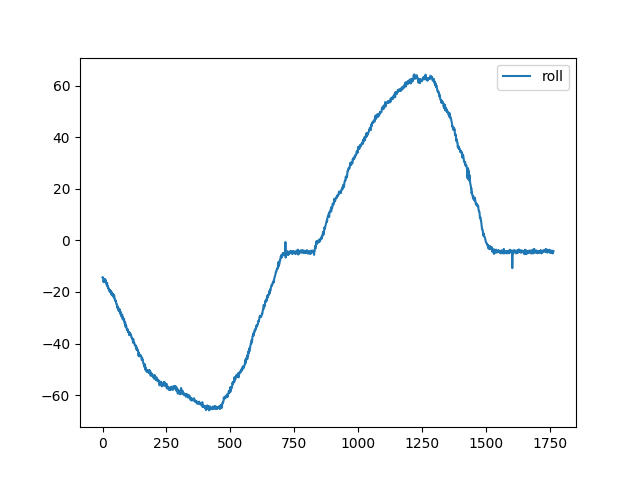
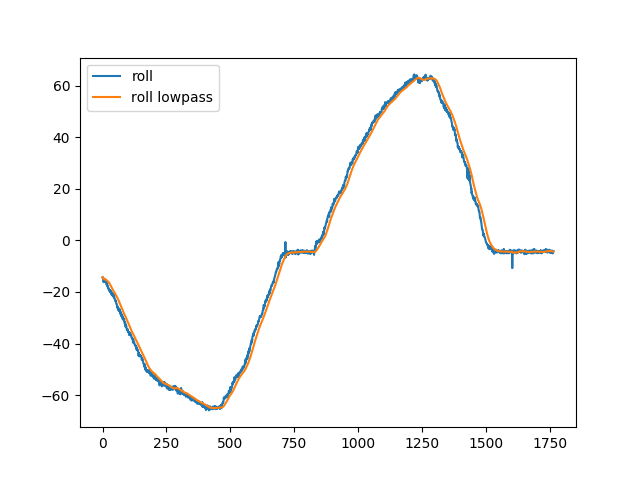
Added solution for excersise 4.1 and 4.2

diff --git a/Lecture5/plot_pitch_angle.py b/Lecture5/plot_pitch_angle.py
@@ -1,6 +1,16 @@
 #!/usr/bin/python2
 from Modules.imu_exercise import plot_accel
 from math import pi, sqrt, atan2
+
+def do_running_average(data_list, n):
+    #return an average of the last n elements in the given list.
+    #If the list contains fewer than n samples, we just return the average of them.
+    if(len(data_list) >= n):
+        return sum(data_list[-n:]) / n
+    else:
+    #We have not sampled enough yet.
+        return sum(data_list) / len(data_list)
+
 def plot_pitch_func(**kwargs):
     #compute the variable
     plotdata = kwargs["plotdata"]
@@ -50,6 +60,90 @@ def plot_static_func(**kwargs):
         plotdata["series"][0]["data"].append(roll)
         plotdata["series"][1]["data"].append(pitch)
 
+def plot_roll_avg_func(**kwargs):
+    #compute the variable
+    plotdata = kwargs["plotdata"]
+    roll = atan2(-kwargs["acc_x"],kwargs["acc_z"])
+    roll *= 180/pi
+
+    #Add the variable to plotdata. If it does not exist yet, simply create it in the dict
+    try:
+        roll_avg = do_running_average(plotdata["series"][0]["data"], 25)
+        plotdata["series"][0]["data"].append(roll)
+        plotdata["series"][1]["data"].append(roll_avg)
+    except:
+        plotdata["series"] = []
+        plotdata["series"].append({"data" : [], "label" : "roll"})
+        plotdata["series"].append({"data" : [], "label" : "roll lowpass"})
+        plotdata["series"][0]["data"].append(roll)
+        plotdata["series"][1]["data"].append(roll)
+
+def plot_pitch_avg_func(**kwargs):
+    #compute the variable
+    plotdata = kwargs["plotdata"]
+    pitch = atan2(kwargs["acc_y"], ( (kwargs["acc_x"] ** 2 + kwargs["acc_z"] ** 2) ** 0.5))
+    pitch *= 180/pi
+
+    #Add the variable to plotdata. If it does not exist yet, simply create it in the dict
+    try:
+        pitch_avg = do_running_average(plotdata["series"][0]["data"], 25)
+        plotdata["series"][0]["data"].append(pitch)
+        plotdata["series"][1]["data"].append(pitch_avg)
+    except:
+        plotdata["series"] = []
+        plotdata["series"].append({"data" : [], "label" : "pitch"})
+        plotdata["series"].append({"data" : [], "label" : "pitch lowpass"})
+        plotdata["series"][0]["data"].append(pitch)
+        plotdata["series"][1]["data"].append(pitch)
+
+def plot_pitch_avg_func(**kwargs):
+    #compute the variable
+    plotdata = kwargs["plotdata"]
+    pitch = atan2(kwargs["acc_y"], ( (kwargs["acc_x"] ** 2 + kwargs["acc_z"] ** 2) ** 0.5))
+    pitch *= 180/pi
+
+    #Add the variable to plotdata. If it does not exist yet, simply create it in the dict
+    try:
+        pitch_avg = do_running_average(plotdata["series"][0]["data"], 25)
+        plotdata["series"][0]["data"].append(pitch)
+        plotdata["series"][1]["data"].append(pitch_avg)
+    except:
+        plotdata["series"] = []
+        plotdata["series"].append({"data" : [], "label" : "pitch"})
+        plotdata["series"].append({"data" : [], "label" : "pitch lowpass"})
+        plotdata["series"][0]["data"].append(pitch)
+        plotdata["series"][1]["data"].append(pitch)
+
+def plot_yaw_gyro_func(**kwargs):
+    #compute the variable
+    #Create the integral if it does not exist
+    init_angle = 90
+    plotdata = kwargs["plotdata"]
+    bias =  2.65/5900
+    #initialize to init angle if first time.
+    try:
+        plotdata["yaw_integral"]
+    except:
+        plotdata["yaw_integral"] = init_angle
+        plotdata["yaw_integral_unbiased"] = init_angle
+
+
+    #Integrate the gyro value
+    plotdata["yaw_integral"] += kwargs["gyro_z"] * (kwargs["ts_now"] - kwargs["ts_prev"]) * 180/pi
+    plotdata["yaw_integral_unbiased"] += kwargs["gyro_z"] * (kwargs["ts_now"] - kwargs["ts_prev"]) * 180/pi - bias
+
+    #Add the variable to plotdata. If it does not exist yet, simply create it in the dict
+    try:
+        plotdata["series"][0]["data"].append(plotdata["yaw_integral"])
+        plotdata["series"][1]["data"].append(plotdata["yaw_integral_unbiased"])
+
+    except:
+        plotdata["series"] = []
+        plotdata["series"].append({"data" : [], "label" : "yaw_gyro"})
+        plotdata["series"].append({"data" : [], "label" : "yaw_gyro_unbiased"})
+
+        plotdata["series"][0]["data"].append(plotdata["yaw_integral"])
+        plotdata["series"][1]["data"].append(plotdata["yaw_integral_unbiased"])
 
 def __main__():
     ## Uncomment the file to read ##
@@ -60,15 +154,31 @@ def __main__():
     #Plot the pitch data
     fileName = 'imu_razor_data_pitch_45deg.txt'
     imuType = 'sparkfun_razor'
-    plot_accel(imuType, fileName, plot_pitch_func)
+    plot_accel(imuType, fileName, plot_pitch_func, pngname = "pitch_accel.png", showplot = False)
     #plot the roll data
     fileName = 'imu_razor_data_roll_45deg.txt'
     imuType = 'sparkfun_razor'
-    plot_accel(imuType, fileName, plot_roll_func)
+    plot_accel(imuType, fileName, plot_roll_func, pngname = "roll_accel.png", showplot = False)
     #plot the static data
     fileName = 'imu_razor_data_static.txt'
     imuType = 'sparkfun_razor'
-    plot_accel(imuType, fileName, plot_static_func)
+    plot_accel(imuType, fileName, plot_static_func, pngname = "static_accel.png", showplot = False)
+
+    fileName = 'imu_razor_data_roll_45deg.txt'
+    imuType = 'sparkfun_razor'
+    plot_accel(imuType, fileName, plot_roll_avg_func, pngname = "roll_avg_accel.png", showplot = False)
+
+    fileName = 'imu_razor_data_pitch_45deg.txt'
+    imuType = 'sparkfun_razor'
+    plot_accel(imuType, fileName, plot_pitch_avg_func, pngname = "pitch_avg_accel.png", showplot = False)
+
+    fileName = 'imu_razor_data_yaw_90deg.txt'
+    imuType = 'sparkfun_razor'
+    plot_accel(imuType, fileName, plot_yaw_gyro_func, pngname = "gyro_yaw.png", showplot = False)
+
+    fileName = 'imu_razor_data_static.txt'
+    imuType = 'sparkfun_razor'
+    plot_accel(imuType, fileName, plot_yaw_gyro_func, pngname = "gyro_yaw.png", showplot = False)
 
 
 __main__()

diff --git a/Lecture5/Modules/imu_exercise.py b/Lecture5/Modules/imu_exercise.py
@@ -17,7 +17,7 @@ import matplotlib.pyplot as plt
 
 
 # looping through file
-def plot_accel(imuType, fileName, plot_func, showplot = True, saveplot = True):
+def plot_accel(imuType, fileName, plot_func, pngname = None, showplot = True, saveplot = True):
     ## Variables for plotting ##
     showPlot = True
     plotData = []
@@ -39,8 +39,8 @@ def plot_accel(imuType, fileName, plot_func, showplot = True, saveplot = True):
         ts_recv = float(csv[0])
         if count == 1:
             ts_now = ts_recv # only the first time
-            ts_prev = ts_now
-            ts_now = ts_recv
+        ts_prev = ts_now
+        ts_now = ts_recv
 
         if imuType == 'sparkfun_razor':
             # import data from a SparkFun Razor IMU (SDU firmware)
@@ -77,8 +77,9 @@ def plot_accel(imuType, fileName, plot_func, showplot = True, saveplot = True):
         ## Insert your code here ##
 
 
-        plot_func(acc_x = acc_x, acc_y = acc_y, acc_z = acc_z
-            , gyro_x = gyro_x, gyro_y = gyro_y, gyro_z = gyro_z, plotdata = plotdata)
+        plot_func(acc_x = acc_x, acc_y = acc_y, acc_z = acc_z,
+            gyro_x = gyro_x, gyro_y = gyro_y, gyro_z = gyro_z,
+            ts_now = ts_now, ts_prev = ts_prev, plotdata = plotdata)
         # in order to show a plot use this function to append your value to a list:
         #plotData.append (plotvar*180.0/pi)
 
@@ -94,6 +95,9 @@ def plot_accel(imuType, fileName, plot_func, showplot = True, saveplot = True):
             plt.plot(series["data"], label=series["label"])
         plt.legend()
         if(saveplot):
-            plt.savefig(fileName + ".png")
+            if(pngname == None):
+                plt.savefig(fileName + ".png")
+            else:
+                plt.savefig(pngname)
         if(showplot):
             plt.show()
